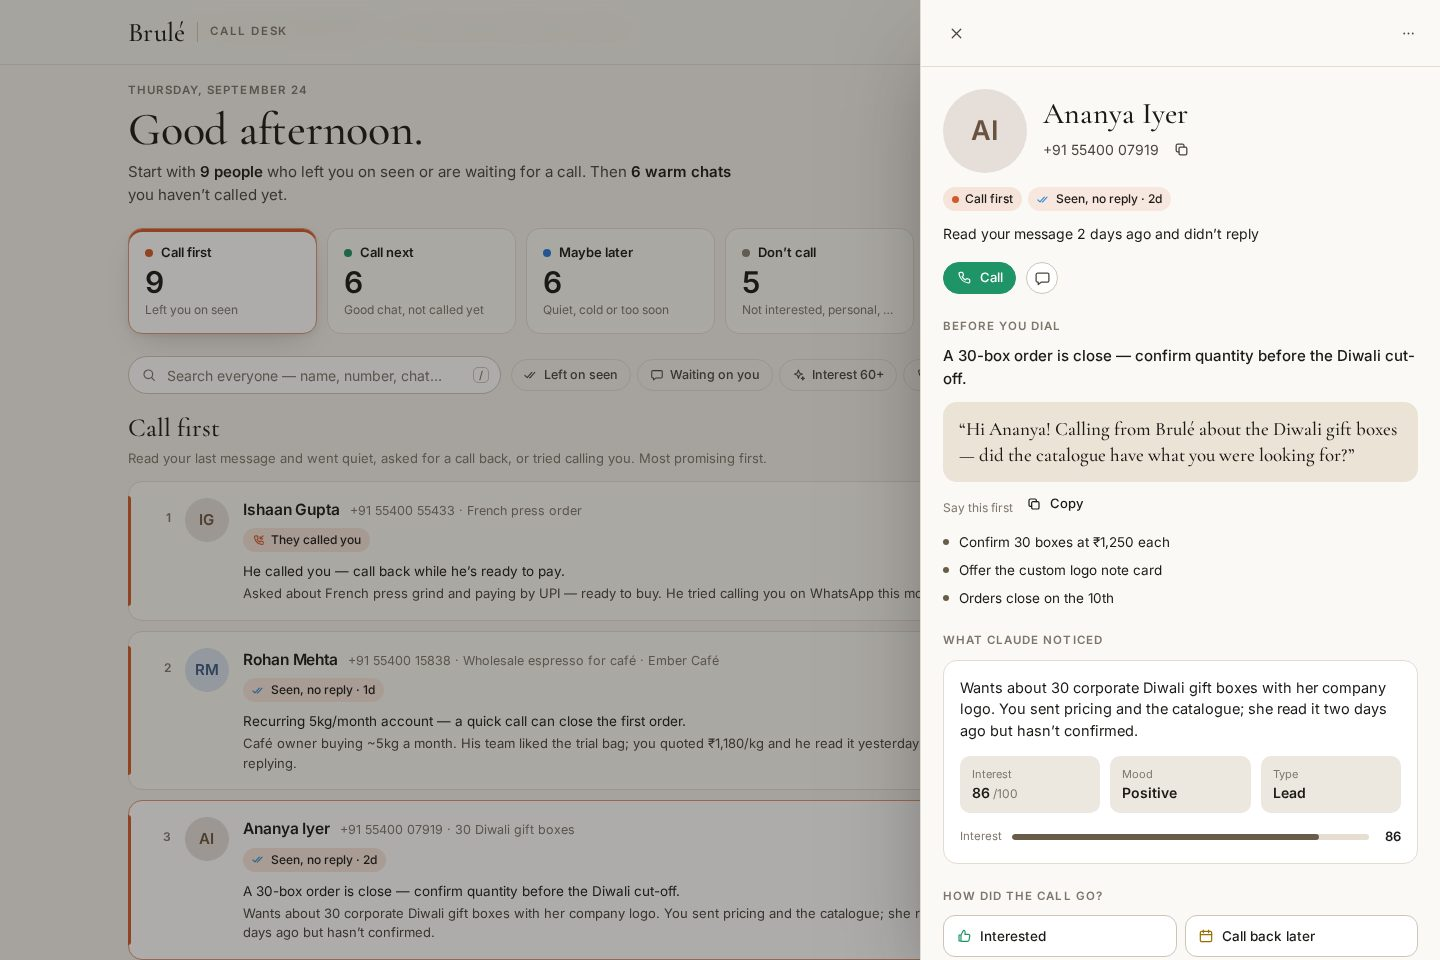
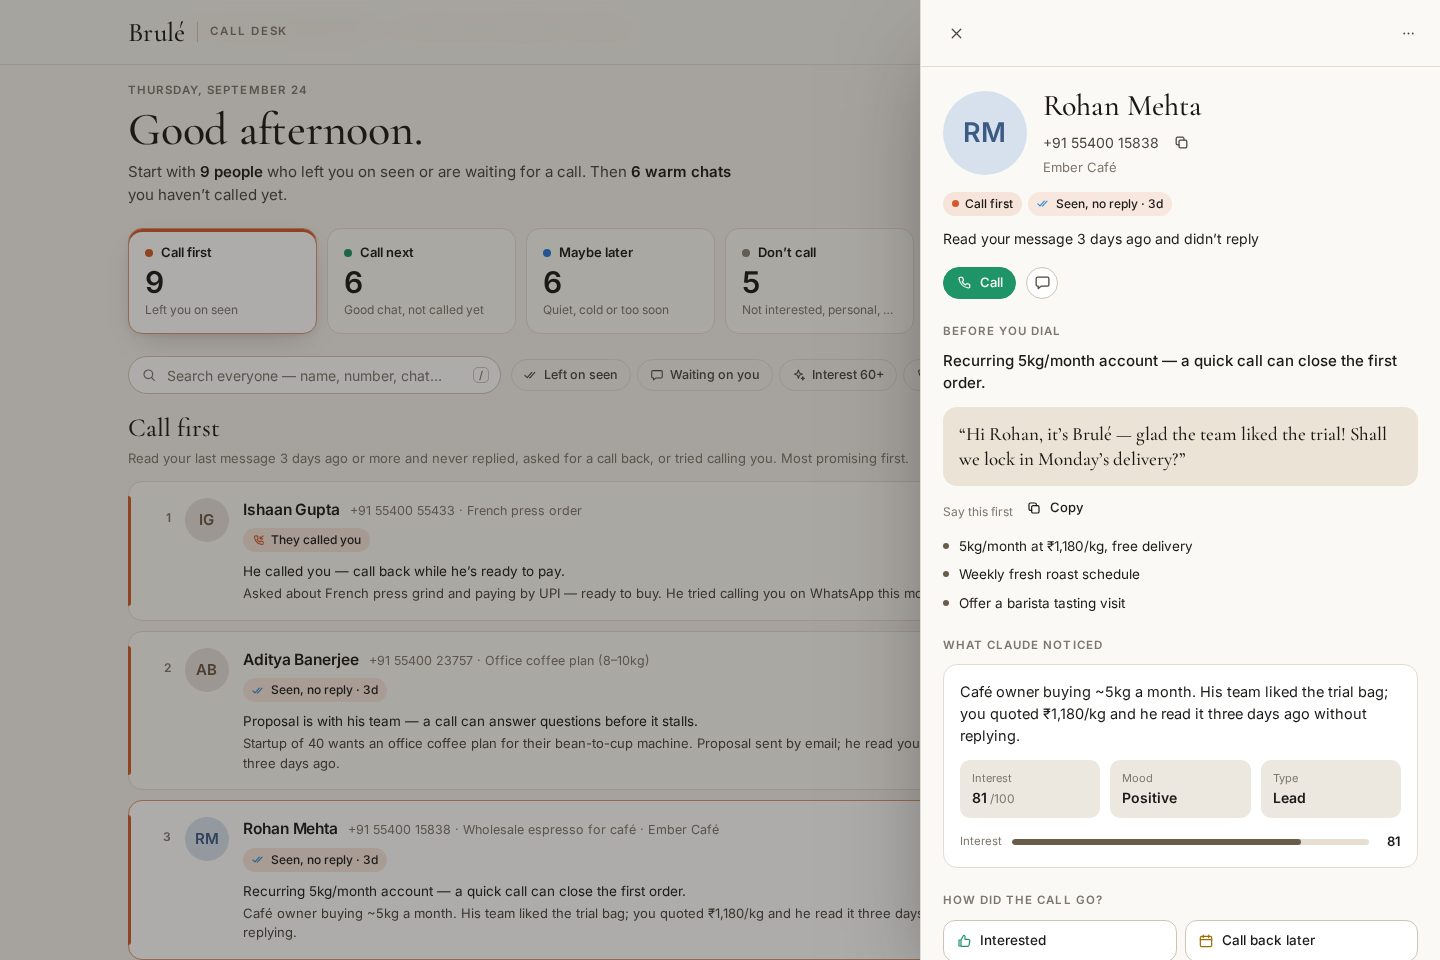
Count "left on seen" after 3 days instead of 4 hours
Someone now lands in Call first only when they read your message and
haven't replied for 3 days. The setting is in days (1–7, default 3).
A warm chat read more recently waits in Call next; a lukewarm one
waits in Maybe later until the 3 days are up. The grey-tick
"Delivered, not read" badge now shows after a day.

Also moves the sample chats' left-on-seen examples past 3 days, makes
the Call first description show the chosen number of days, and has
the server test ask the OS for a free port so parallel runs don't
collide.

Claude-Session: https://claude.ai/code/session_01J6du6LZAr7Wqq3jF1B1YAN

diff --git a/whatsapp-call-desk/server/demo.js b/whatsapp-call-desk/server/demo.js
@@ -16,17 +16,17 @@ const CHATS = [
   {
     name: 'Ananya Iyer',
     msgs: [
-      [ago(4, 3), 'them', 'Hi! Saw Brulé on Instagram 😍 Do you do corporate gift boxes? Need around 30 for Diwali'],
-      [ago(4, 2, 40), 'me', 'Hi Ananya! Yes we do ☕ Our Dolce Vita box has 250g of house blend, a ceramic mug and postcards. ₹1,450 each, ₹1,250 each for 25+'],
-      [ago(4, 2, 38), 'them', 'Ooh nice. Can you add our logo somewhere?'],
-      [ago(4, 2, 30), 'me', 'Absolutely — we can print a custom note card with your logo in every box.'],
-      [ago(2, 1), 'me', '', { type: 'document', body: '[document: Brule-Gifting-Catalogue.pdf]' }],
-      [ago(2, 0, 58), 'me', 'Here’s the full catalogue. Shall I hold 30 boxes for you? Diwali orders close on the 10th.', { ack: 3 }],
+      [ago(6, 3), 'them', 'Hi! Saw Brulé on Instagram 😍 Do you do corporate gift boxes? Need around 30 for Diwali'],
+      [ago(6, 2, 40), 'me', 'Hi Ananya! Yes we do ☕ Our Dolce Vita box has 250g of house blend, a ceramic mug and postcards. ₹1,450 each, ₹1,250 each for 25+'],
+      [ago(6, 2, 38), 'them', 'Ooh nice. Can you add our logo somewhere?'],
+      [ago(6, 2, 30), 'me', 'Absolutely — we can print a custom note card with your logo in every box.'],
+      [ago(4, 1), 'me', '', { type: 'document', body: '[document: Brule-Gifting-Catalogue.pdf]' }],
+      [ago(4, 0, 58), 'me', 'Here’s the full catalogue. Shall I hold 30 boxes for you? Diwali orders close on the 10th.', { ack: 3 }],
     ],
     analysis: {
       category: 'lead', interest: 86, sentiment: 'positive', endedOnGoodNote: true, expectsReply: true,
       intent: '30 Diwali gift boxes',
-      summary: 'Wants about 30 corporate Diwali gift boxes with her company logo. You sent pricing and the catalogue; she read it two days ago but hasn’t confirmed.',
+      summary: 'Wants about 30 corporate Diwali gift boxes with her company logo. You sent pricing and the catalogue; she read it four days ago but hasn’t confirmed.',
       whyCall: 'A 30-box order is close — confirm quantity before the Diwali cut-off.',
       opener: 'Hi Ananya! Calling from Brulé about the Diwali gift boxes — did the catalogue have what you were looking for?',
       talkingPoints: ['Confirm 30 boxes at ₹1,250 each', 'Offer the custom logo note card', 'Orders close on the 10th'],
@@ -36,16 +36,16 @@ const CHATS = [
     name: 'Rohan Mehta',
     note: 'Ember Café',
     msgs: [
-      [ago(6, 5), 'them', 'Hey, I run Ember Café in Indiranagar. Looking for a new roaster for our espresso. Do you supply cafés?'],
-      [ago(6, 4), 'me', 'Hi Rohan! We do. Our house espresso blend is medium-dark, chocolatey, great with milk. Happy to send a 1kg trial bag.'],
-      [ago(5, 22), 'them', 'Trial would be great. We go through ~5kg a month'],
-      [ago(3, 2), 'them', 'Got the trial bag, the team liked it 👍 what’s the price for 5kg monthly?'],
-      [ago(1, 2), 'me', 'So glad! For 5kg/month it’s ₹1,180/kg with free delivery, roasted fresh every week. Want me to set up the first order for Monday?', { ack: 3 }],
+      [ago(8, 5), 'them', 'Hey, I run Ember Café in Indiranagar. Looking for a new roaster for our espresso. Do you supply cafés?'],
+      [ago(8, 4), 'me', 'Hi Rohan! We do. Our house espresso blend is medium-dark, chocolatey, great with milk. Happy to send a 1kg trial bag.'],
+      [ago(7, 22), 'them', 'Trial would be great. We go through ~5kg a month'],
+      [ago(5, 2), 'them', 'Got the trial bag, the team liked it 👍 what’s the price for 5kg monthly?'],
+      [ago(3, 6), 'me', 'So glad! For 5kg/month it’s ₹1,180/kg with free delivery, roasted fresh every week. Want me to set up the first order for Monday?', { ack: 3 }],
     ],
     analysis: {
       category: 'lead', interest: 81, sentiment: 'positive', endedOnGoodNote: true, expectsReply: true,
       intent: 'Wholesale espresso for café',
-      summary: 'Café owner buying ~5kg a month. His team liked the trial bag; you quoted ₹1,180/kg and he read it yesterday without replying.',
+      summary: 'Café owner buying ~5kg a month. His team liked the trial bag; you quoted ₹1,180/kg and he read it three days ago without replying.',
       whyCall: 'Recurring 5kg/month account — a quick call can close the first order.',
       opener: 'Hi Rohan, it’s Brulé — glad the team liked the trial! Shall we lock in Monday’s delivery?',
       talkingPoints: ['5kg/month at ₹1,180/kg, free delivery', 'Weekly fresh roast schedule', 'Offer a barista tasting visit'],
@@ -73,14 +73,14 @@ const CHATS = [
   {
     name: 'Arjun Kapoor',
     msgs: [
-      [ago(5, 6), 'them', 'Bro the sample pack was 🔥🔥 the Chikmagalur one especially'],
-      [ago(5, 5), 'me', 'Haha thank you Arjun! That one’s my favourite too ☕'],
-      [ago(0, 20), 'me', 'We’re starting a monthly subscription — 2 bags a month, 15% off. Want me to put you down for the first batch?', { ack: 3 }],
+      [ago(7, 6), 'them', 'Bro the sample pack was 🔥🔥 the Chikmagalur one especially'],
+      [ago(7, 5), 'me', 'Haha thank you Arjun! That one’s my favourite too ☕'],
+      [ago(3, 4), 'me', 'We’re starting a monthly subscription — 2 bags a month, 15% off. Want me to put you down for the first batch?', { ack: 3 }],
     ],
     analysis: {
       category: 'lead', interest: 72, sentiment: 'positive', endedOnGoodNote: true, expectsReply: true,
       intent: 'Monthly subscription',
-      summary: 'Loved the sample pack, especially the Chikmagalur single origin. You offered the monthly subscription; he read it 20 hours ago.',
+      summary: 'Loved the sample pack, especially the Chikmagalur single origin. You offered the monthly subscription; he read it three days ago.',
       whyCall: 'A fan of the product — a friendly call is likely to convert him to a subscription.',
       opener: 'Arjun! It’s Brulé — so glad you loved the Chikmagalur. Want me to add you to the first subscription batch?',
       talkingPoints: ['2 bags a month at 15% off', 'Lead with the Chikmagalur he loved', 'First batch ships next week'],

diff --git a/whatsapp-call-desk/test/priority.test.js b/whatsapp-call-desk/test/priority.test.js
@@ -23,13 +23,41 @@ const chat = (messages, extra = {}) => ({ id: 'x@c.us', name: 'Test', number: '9
 const ai = (c, fields) => ({ source: 'ai', basedOnMessageId: c.messages.at(-1).id, interest: 50, sentiment: 'neutral', category: 'lead', endedOnGoodNote: false, expectsReply: true, doNotCall: false, ...fields });
 const run = (c, analysis, crm) => classify({ chat: c, analysis, crm, settings, now: NOW });
 
-test('read your question and did not reply → call first', () => {
-  const c = chat([msg(3 * DAY, 'them', 'How much for 1kg?'), msg(2 * DAY, 'me', '₹2,400. Want me to send it?')]);
+test('read your question and did not reply for days → call first', () => {
+  const c = chat([msg(5 * DAY, 'them', 'How much for 1kg?'), msg(4 * DAY, 'me', '₹2,400. Want me to send it?')]);
   const r = run(c, ai(c, { interest: 70 }));
   assert.equal(r.tier, 'first');
   assert.equal(r.leftOnSeen, true);
-  assert.match(r.reason, /Read your message 2 days ago/);
+  assert.match(r.reason, /Read your message 4 days ago/);
   assert.ok(r.badges.some((b) => b.kind === 'seen'));
+});
+
+test('left on seen only counts after 3 days by default (changeable in Settings)', () => {
+  const readAgo = (days) => chat([msg(days * DAY + HOUR, 'them', 'Price for 1kg?'), msg(days * DAY, 'me', '₹2,400 — shall I send it?')]);
+  const two = readAgo(2);
+  const r2 = run(two, ai(two, { interest: 40 }));
+  assert.equal(r2.leftOnSeen, false);
+  assert.equal(r2.tier, 'later');
+  assert.match(r2.reason, /Read 2 days ago — give them a little time/);
+
+  const three = readAgo(3);
+  assert.equal(run(three, ai(three, { interest: 40 })).tier, 'first');
+
+  const fourDaySetting = classify({ chat: three, analysis: ai(three, { interest: 40 }), settings: { ...settings, seenAfterDays: 4 }, now: NOW });
+  assert.equal(fourDaySetting.tier, 'later');
+});
+
+test('a warm chat read recently waits in call next until the 3 days are up', () => {
+  const c = chat([
+    msg(DAY + 3 * HOUR, 'them', 'Loved the sample! What does the subscription cost?'),
+    msg(DAY + 2 * HOUR, 'them', 'Would love 2 bags a month'),
+    msg(DAY + HOUR, 'me', '₹1,150 for 2 bags. Shall I start you next week?'),
+    msg(DAY, 'them', 'Let me check with my wife'),
+    msg(DAY - HOUR, 'me', 'Sure! Want me to hold a spot?'),
+  ]);
+  const r = run(c, ai(c, { interest: 75, sentiment: 'positive' }));
+  assert.equal(r.tier, 'next');
+  assert.ok(r.badges.some((b) => b.kind === 'read'));
 });
 
 test('read too recently → not yet left on seen', () => {
@@ -95,7 +123,7 @@ test('your WhatsApp call after the last message → called', () => {
 });
 
 test('logged calls: interested → done, no answer stays with a badge, 3 no-answers → later', () => {
-  const c = chat([msg(3 * DAY, 'them', 'Price?'), msg(2 * DAY, 'me', '₹650 — want it?')]);
+  const c = chat([msg(5 * DAY, 'them', 'Price?'), msg(4 * DAY, 'me', '₹650 — want it?')]);
   const a = ai(c, { interest: 70 });
   assert.equal(run(c, a, { calls: [{ at: NOW - HOUR, outcome: 'interested' }] }).tier, 'done');
 
@@ -127,7 +155,7 @@ test('"not interested" on a call skips them — unless they write again later', 
 });
 
 test('your manual move wins, and a stale AI read falls back to the reply heuristic', () => {
-  const c = chat([msg(3 * DAY, 'them', 'Hi'), msg(2 * DAY, 'me', 'Hello! How can I help?')]);
+  const c = chat([msg(5 * DAY, 'them', 'Hi'), msg(4 * DAY, 'me', 'Hello! How can I help?')]);
   assert.equal(run(c, ai(c, {}), { override: 'skip' }).tier, 'skip');
   const stale = { ...ai(c, { expectsReply: false }), basedOnMessageId: 'older' };
   const r = run(c, stale);

diff --git a/whatsapp-call-desk/test/server.test.js b/whatsapp-call-desk/test/server.test.js
@@ -3,31 +3,48 @@ import assert from 'node:assert/strict';
 import { spawn } from 'node:child_process';
 import fs from 'node:fs';
 import http from 'node:http';
+import net from 'node:net';
 import os from 'node:os';
 import path from 'node:path';
 import { fileURLToPath } from 'node:url';
 
 const root = path.resolve(path.dirname(fileURLToPath(import.meta.url)), '..');
-const port = 3900 + Math.floor(Math.random() * 90);
-const base = `http://127.0.0.1:${port}`;
 const dataDir = fs.mkdtempSync(path.join(os.tmpdir(), 'calldesk-test-'));
+let port;
+let base;
 let child;
 
+// Ask the OS for a free port so parallel test runs never collide.
+const freePort = () =>
+  new Promise((resolve, reject) => {
+    const probe = net.createServer().once('error', reject);
+    probe.listen(0, '127.0.0.1', () => {
+      const { port: p } = probe.address();
+      probe.close(() => resolve(p));
+    });
+  });
+
 before(async () => {
+  port = await freePort();
+  base = `http://127.0.0.1:${port}`;
+  let output = '';
   child = spawn(process.execPath, ['server/index.js', '--demo'], {
     cwd: root,
     env: { ...process.env, PORT: String(port), DATA_DIR: dataDir, ANTHROPIC_API_KEY: '' },
-    stdio: 'ignore',
+    stdio: ['ignore', 'pipe', 'pipe'],
   });
-  for (let i = 0; i < 50; i++) {
+  child.stdout.on('data', (d) => (output += d));
+  child.stderr.on('data', (d) => (output += d));
+  for (let i = 0; i < 150; i++) {
     try {
       if ((await fetch(`${base}/api/state`)).ok) return;
     } catch {
       // not up yet
     }
+    if (child.exitCode !== null) break;
     await new Promise((r) => setTimeout(r, 100));
   }
-  throw new Error('server did not start');
+  throw new Error(`server did not start:\n${output}`);
 });
 after(() => {
   child.kill();
@@ -100,8 +117,8 @@ test('manual moves, stars and notes are saved', async () => {
 });
 
 test('settings are validated and the API key is never sent back', async () => {
-  const saved = await (await post('/api/settings', { seenAfterHours: 9999, model: 'not-a-model', anthropicApiKey: 'sk-ant-api03-abcdefghijklmnop' })).json();
-  assert.equal(saved.seenAfterHours, 240);
+  const saved = await (await post('/api/settings', { seenAfterDays: 9999, model: 'not-a-model', anthropicApiKey: 'sk-ant-api03-abcdefghijklmnop' })).json();
+  assert.equal(saved.seenAfterDays, 30);
   assert.equal(saved.model, 'claude-opus-5');
   assert.equal(saved.anthropicApiKey, undefined);
   assert.match(saved.anthropicKeyHint, /^sk-ant-api…mnop$/);

diff --git a/whatsapp-call-desk/public/app/settings.js b/whatsapp-call-desk/public/app/settings.js
@@ -8,7 +8,7 @@ const pick = (s) => ({
   ownerName: s.ownerName,
   model: s.model,
   autoAnalyze: s.autoAnalyze,
-  seenAfterHours: s.seenAfterHours,
+  seenAfterDays: s.seenAfterDays,
   staleAfterDays: s.staleAfterDays,
   maxChats: s.maxChats,
   messagesPerChat: s.messagesPerChat,
@@ -20,7 +20,7 @@ const pick = (s) => ({
 function NumberSelect({ id, value, options, onChange, suffix }) {
   const list = options.includes(value) ? options : [...options, value].sort((a, b) => a - b);
   return html`<select id=${id} value=${value} onChange=${(e) => onChange(Number(e.currentTarget.value))}>
-    ${list.map((n) => html`<option key=${n} value=${n}>${n} ${suffix}</option>`)}
+    ${list.map((n) => html`<option key=${n} value=${n}>${n} ${n === 1 ? suffix.replace(/s$/, '') : suffix}</option>`)}
   </select>`;
 }
 
@@ -105,8 +105,8 @@ export function SettingsModal({ server, actions, focus, onClose }) {
       <div class="grid-2">
         <div class="field">
           <label for="seen">“Left on seen” after</label>
-          <${NumberSelect} id="seen" value=${form.seenAfterHours} options=${[1, 2, 4, 8, 12, 24, 48]} suffix="hours" onChange=${set('seenAfterHours')} />
-          <small>How long after they read your message before it counts.</small>
+          <${NumberSelect} id="seen" value=${form.seenAfterDays} options=${[1, 2, 3, 4, 5, 7]} suffix="days" onChange=${set('seenAfterDays')} />
+          <small>How long they can sit on your message (read, no reply) before they go to Call first.</small>
         </div>
         <div class="field">
           <label for="stale">Gone cold after</label>

diff --git a/whatsapp-call-desk/server/signals.js b/whatsapp-call-desk/server/signals.js
@@ -1,4 +1,4 @@
-import { DAY, HOUR } from './config.js';
+import { DAY } from './config.js';
 
 // WhatsApp tick states (whatsapp-web.js MessageAck)
 export const ACK = { ERROR: -1, PENDING: 0, SENT: 1, DELIVERED: 2, READ: 3, PLAYED: 4 };
@@ -35,7 +35,8 @@ export function computeSignals(chat, crm = {}, settings, now = Date.now()) {
   const sinceLast = last ? now - last.ts : Infinity;
   const lastFromMe = Boolean(last?.fromMe);
   const ack = lastFromMe ? (last.ack ?? null) : null;
-  const waitedLongEnough = sinceLast >= settings.seenAfterHours * HOUR;
+  // "Left on seen" only after they have sat on your message for a few days (Settings, default 3).
+  const waitedLongEnough = sinceLast >= settings.seenAfterDays * DAY;
 
   const deskCalls = [...(crm.calls ?? [])].sort((a, b) => a.at - b.at);
   const waCalls = [...(chat.callLogs ?? [])].sort((a, b) => a.ts - b.ts);
@@ -62,7 +63,7 @@ export function computeSignals(chat, crm = {}, settings, now = Date.now()) {
     readNoReply: lastFromMe && ack !== null && ack >= ACK.READ && waitedLongEnough,
     readRecently: lastFromMe && ack !== null && ack >= ACK.READ && !waitedLongEnough,
     // Grey double tick: delivered but not opened — or they have read receipts turned off.
-    deliveredNoReply: lastFromMe && ack === ACK.DELIVERED && waitedLongEnough,
+    deliveredNoReply: lastFromMe && ack === ACK.DELIVERED && sinceLast >= DAY,
     notDelivered: lastFromMe && ack !== null && ack <= ACK.SENT && sinceLast >= DAY,
     awaitingReply: Boolean(last) && !lastFromMe,
     unreadCount: chat.unreadCount ?? 0,

diff --git a/whatsapp-call-desk/public/app/dashboard.js b/whatsapp-call-desk/public/app/dashboard.js
@@ -4,7 +4,8 @@ import { Icon } from './icons.js';
 import { Avatar, Badge, TierBadge, Meter, LogCallMenu, MoreMenu, CallButtons, Spinner } from './components.js';
 
 const TIER_INTRO = {
-  first: 'Read your last message and went quiet, asked for a call back, or tried calling you. Most promising first.',
+  first: (days) =>
+    `Read your last message ${plural(days, 'day')} ago or more and never replied, asked for a call back, or tried calling you. Most promising first.`,
   next: 'You had a good conversation or they seem interested — and you haven’t called yet.',
   later: 'Delivered but unread, lukewarm, gone quiet for weeks, or too soon to chase.',
   skip: 'Said no, wrong number, friends & family, spam or automated messages.',
@@ -298,7 +299,7 @@ export function Dashboard({ server, data, ui, setUi, actions, theme }) {
       <div class="list-head">
         <div>
           <h2>${query ? 'Search results' : TIER_META[ui.tier].label}</h2>
-          <p>${query ? plural(visible.length, 'match', 'matches') : TIER_INTRO[ui.tier]}</p>
+          <p>${query ? plural(visible.length, 'match', 'matches') : ui.tier === 'first' ? TIER_INTRO.first(server.settings.seenAfterDays) : TIER_INTRO[ui.tier]}</p>
         </div>
       </div>
 

diff --git a/whatsapp-call-desk/server/index.js b/whatsapp-call-desk/server/index.js
@@ -294,7 +294,7 @@ app.post('/api/settings', (req, res) => {
   for (const key of ['autoAnalyze', 'includeGroups', 'includePersonal']) {
     if (typeof body[key] === 'boolean') s[key] = body[key];
   }
-  const ranges = { seenAfterHours: [0, 240], staleAfterDays: [1, 365], maxChats: [10, 1000], messagesPerChat: [10, 200], lookbackDays: [7, 730] };
+  const ranges = { seenAfterDays: [1, 30], staleAfterDays: [1, 365], maxChats: [10, 1000], messagesPerChat: [10, 200], lookbackDays: [7, 730] };
   for (const [key, [min, max]] of Object.entries(ranges)) {
     const n = Math.round(Number(body[key]));
     if (body[key] !== undefined && Number.isFinite(n)) s[key] = Math.min(max, Math.max(min, n));

diff --git a/whatsapp-call-desk/server/config.js b/whatsapp-call-desk/server/config.js
@@ -34,7 +34,7 @@ export const DEFAULT_SETTINGS = {
   anthropicApiKey: '',
   model: MODELS[0].id,
   autoAnalyze: true,
-  seenAfterHours: 4,
+  seenAfterDays: 3,
   staleAfterDays: 45,
   maxChats: 150,
   messagesPerChat: 40,

diff --git a/whatsapp-call-desk/README.md b/whatsapp-call-desk/README.md
@@ -13,9 +13,9 @@ Link WhatsApp by scanning a QR code. Call Desk reads your recent chats, includin
 
 | List | Who lands here |
 |---|---|
-| 🟠 **Call first** | Read your last message and didn't reply (*left on seen*). Also anyone who asked you to call back when that time has come, and anyone who tried calling you. |
+| 🟠 **Call first** | Read your last message 3 or more days ago and didn't reply (*left on seen*). Also anyone who asked you to call back when that time has come, and anyone who tried calling you. |
 | 🟢 **Call next** | You had a good chat, or they seem interested, and you haven't called yet. Also people who wrote last and are waiting on you. |
-| 🔵 **Maybe later** | Your message was delivered but not read yet, or they only just read it. Also lukewarm chats, and chats that have been quiet for more than 45 days. |
+| 🔵 **Maybe later** | Your message was delivered but not read yet. Also lukewarm chats where it's been less than 3 days since they read your message, and chats that have been quiet for more than 45 days. |
 | ⚪ **Don't call** | Said no, or it's a wrong number. Also friends and family, spam, and automated messages. |
 | 🟤 **Called** | You logged a call, or called on WhatsApp, after their last message. |
 | 🟡 **Snoozed** | Call-backs and snoozes. They come back to the top when the time comes. |
@@ -55,7 +55,7 @@ After that, just run `npm start` whenever you want your list. You stay logged in
 
 **Left on seen.** WhatsApp shows ✓ for sent, grey ✓✓ for delivered and blue ✓✓ for read. Call Desk counts someone as *left on seen* when all of these are true:
 - your last message has blue ticks
-- it's at least 4 hours old (you can change this in Settings)
+- they read it at least 3 days ago and still haven't replied (you can change this to anything from 1 to 7 days in Settings)
 - it actually expected an answer, like a question, a price, an offer or a follow-up
 
 A sign-off like "thanks!" or "you're welcome ☕" doesn't count. People who turned read receipts off never show blue ticks, so they appear as *Delivered, not read*.
@@ -86,7 +86,7 @@ Without an API key, Call Desk still works. It sorts chats with a quick keyword r
 | Model | Claude Opus 5 | Opus 5 is the most thorough. Sonnet 5 and Haiku 4.5 are cheaper. |
 | Analyze automatically | On | Claude reads new or changed chats right after each sync. |
 | What you do | Brulé description | Tells Claude what counts as "interested". Edit this. |
-| "Left on seen" after | 4 hours | How long after they read your message before it counts. |
+| "Left on seen" after | 3 days | How long they can sit on your message (read, no reply) before they go to Call first. |
 | Gone cold after | 45 days | Older chats drop to Maybe later. |
 | Friends & family / groups | Off | Personal chats and groups stay off the call list. |
 | Chats / messages / days | 150 / 40 / 120 | How much of WhatsApp to read on each sync. |
